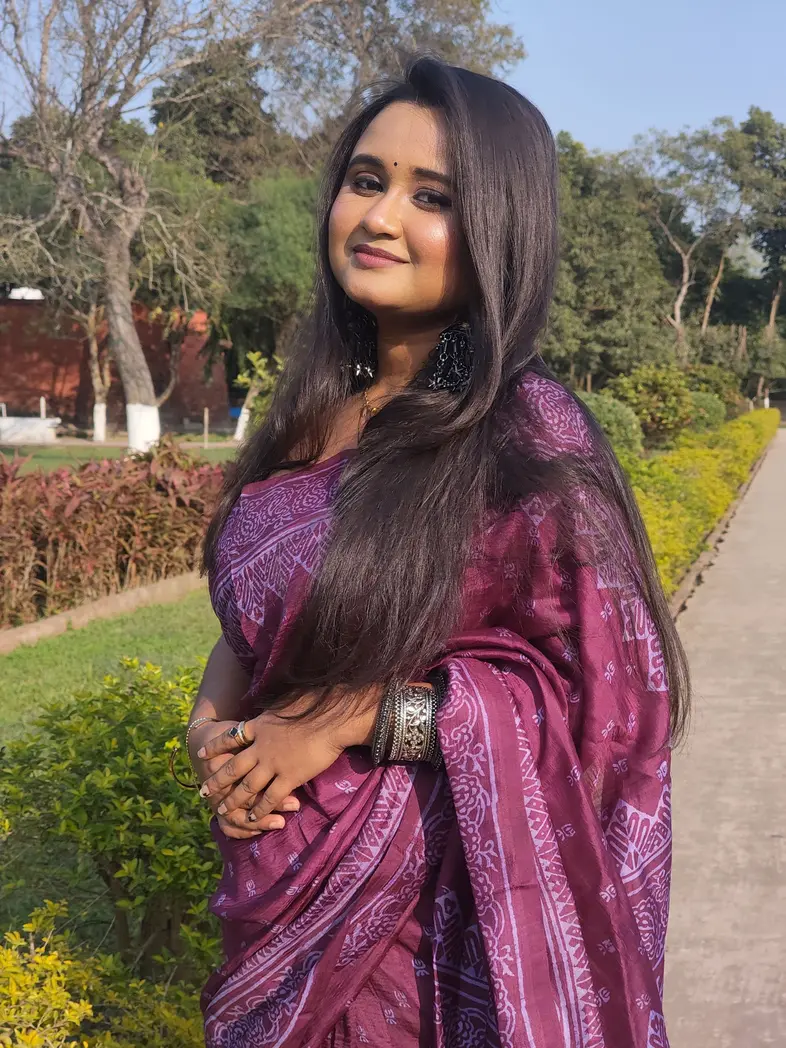
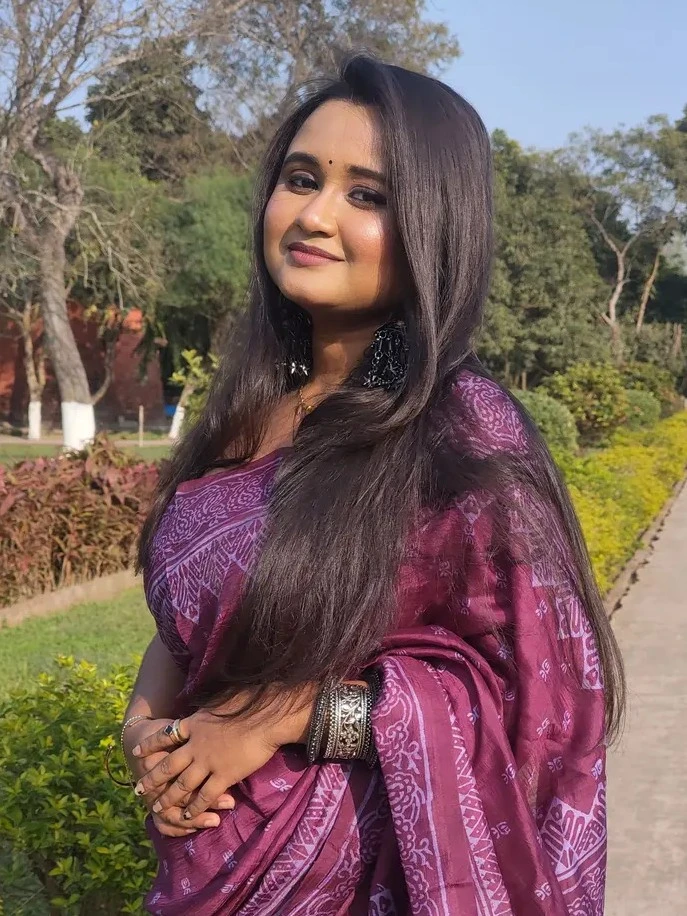
feat: add batchmates data and associated profile images

diff --git a/src/data/batchmates.js b/src/data/batchmates.js
@@ -9,7 +9,7 @@ export const peopleData =
     department: "Computer Science",
     birthday: "07-30",
     oneliner: "Somewhere behind these pages...",
-    socialLinks: { github: "#", linkedin: "#", instagram: "#" }
+    socialLinks: { github: "https://github.com/soumyajiitdas", linkedin: "linkedin.com/in/soumyajiitdas/", instagram: "https://www.instagram.com/soumyajiit_" }
   },
   {
     id: 2,
@@ -20,7 +20,7 @@ export const peopleData =
     department: "Computer Science",
     birthday: "",
     oneliner: "",
-    socialLinks: { github: "#", linkedin: "#", instagram: "#" }
+    socialLinks: { github: "#", linkedin: "#", instagram: "https://www.instagram.com/joy.bhowmik_03/" }
   },
   {
     id: 3,
@@ -31,7 +31,7 @@ export const peopleData =
     department: "Computer Science",
     birthday: "08-14",
     oneliner: "",
-    socialLinks: { github: "#", linkedin: "#", instagram: "#" }
+    socialLinks: { github: "#", linkedin: "https://www.linkedin.com/in/indrajit-ghosh-a53291390/", instagram: "https://www.instagram.com/indra5000q/" }
   },
   {
     id: 4,
@@ -42,7 +42,7 @@ export const peopleData =
     department: "Civil Engineering",
     birthday: "01-22",
     oneliner: "",
-    socialLinks: { github: "#", linkedin: "#", instagram: "#" }
+    socialLinks: { github: "#", linkedin: "https://www.linkedin.com/in/kriti-dutta-2922772bb/", instagram: "https://www.instagram.com/d_kritu/" }
   },
   {
     id: 5,
@@ -53,18 +53,18 @@ export const peopleData =
     department: "Computer Science",
     birthday: "",
     oneliner: "",
-    socialLinks: { github: "#", linkedin: "#", instagram: "#" }
+    socialLinks: { github: "https://github.com/raihanahamed01", linkedin: "https://www.linkedin.com/in/raihan-ahamed-910a3727a/", instagram: "https://www.instagram.com/ra1_haaann/" }
   },
   {
     id: 6,
     name: "Bapi Sarkar",
     nickname: "",
     roll: "10600122001",
-    photo: "/images/cast/batchmates/bapi.jpg",
+    photo: "/images/cast/batchmates/bapi.jpeg",
     department: "Computer Science",
     birthday: "",
     oneliner: "",
-    socialLinks: { github: "#", linkedin: "#", instagram: "#" }
+    socialLinks: { github: "https://github.com/bapisarkar22", linkedin: "https://www.linkedin.com/in/bapisarkar2005/", instagram: "https://www.instagram.com/bapisarkar1498/" }
   },
   {
     id: 7,
@@ -75,7 +75,7 @@ export const peopleData =
     department: "Computer Science",
     birthday: "06-02",
     oneliner: "",
-    socialLinks: { github: "#", linkedin: "#", instagram: "#" }
+    socialLinks: { github: "#", linkedin: "#", instagram: "https://www.instagram.com/___mr.glitch___/" }
   },
   {
     id: 8,
@@ -86,7 +86,7 @@ export const peopleData =
     department: "Computer Science",
     birthday: "02-03",
     oneliner: "",
-    socialLinks: { github: "#", linkedin: "#", instagram: "#" }
+    socialLinks: { github: "#", linkedin: "#", instagram: "https://www.instagram.com/manashi_mondal/" }
   },
   {
     id: 9,
@@ -97,7 +97,7 @@ export const peopleData =
     department: "Computer Science",
     birthday: "03-30",
     oneliner: "",
-    socialLinks: { github: "#", linkedin: "#", instagram: "#" }
+    socialLinks: { github: "#", linkedin: "#", instagram: "https://www.instagram.com/saeed_mustafa0/" }
   },
   {
     id: 10,
@@ -108,7 +108,7 @@ export const peopleData =
     department: "Computer Science",
     birthday: "06-02",
     oneliner: "",
-    socialLinks: { github: "#", linkedin: "#", instagram: "#" }
+    socialLinks: { github: "#", linkedin: "#", instagram: "https://www.instagram.com/rohitmaldini03/" }
   },
   {
     id: 11,
@@ -119,7 +119,7 @@ export const peopleData =
     department: "Computer Science",
     birthday: "",
     oneliner: "",
-    socialLinks: { github: "#", linkedin: "#", instagram: "#" }
+    socialLinks: { github: "https://github.com/rajupilki-ctrl", linkedin: "https://www.linkedin.com/in/raju-mondal-a4405929a/", instagram: "https://www.instagram.com/rajumondal416/" }
   },
   {
     id: 12,
@@ -130,7 +130,7 @@ export const peopleData =
     department: "Computer Science",
     birthday: "",
     oneliner: "",
-    socialLinks: { github: "#", linkedin: "#", instagram: "#" }
+    socialLinks: { github: "https://github.com/ani-11-pro", linkedin: "https://www.linkedin.com/in/contact-ani/", instagram: "https://www.instagram.com/ulto_bangal_eee/" }
   },
   {
     id: 13,
@@ -141,7 +141,7 @@ export const peopleData =
     department: "Computer Science",
     birthday: "",
     oneliner: "",
-    socialLinks: { github: "#", linkedin: "#", instagram: "#" }
+    socialLinks: { github: "https://github.com/roni0777", linkedin: "#", instagram: "#" }
   },
   {
     id: 14,
@@ -159,11 +159,11 @@ export const peopleData =
     name: "Md. Azam",
     nickname: "",
     roll: "",
-    photo: "/images/cast/batchmates/azam.png",
+    photo: "/images/cast/batchmates/azam.jpeg",
     department: "Computer Science",
     birthday: "",
     oneliner: "",
-    socialLinks: { github: "#", linkedin: "#", instagram: "#" }
+    socialLinks: { github: "#", linkedin: "#", instagram: "https://www.instagram.com/im_azam9137/" }
   },
   {
     id: 16,
@@ -174,7 +174,7 @@ export const peopleData =
     department: "Computer Science",
     birthday: "",
     oneliner: "",
-    socialLinks: { github: "#", linkedin: "#", instagram: "#" }
+    socialLinks: { github: "#", linkedin: "https://www.linkedin.com/in/%F0%9D%90%8D%F0%9D%90%AE%F0%9D%90%AB%F0%9D%90%9F%F0%9D%90%AE%F0%9D%90%A5-%F0%9D%90%92%F0%9D%90%A1%F0%9D%90%9A%F0%9D%90%A2%F0%9D%90%A4%F0%9D%90%A1-115863272/", instagram: "https://www.instagram.com/shaikhnurful/" }
   },
   {
     id: 17,
@@ -185,7 +185,7 @@ export const peopleData =
     department: "Civil Engineering",
     birthday: "",
     oneliner: "",
-    socialLinks: { github: "#", linkedin: "#", instagram: "#" }
+    socialLinks: { github: "#", linkedin: "#", instagram: "https://www.instagram.com/skylordishan/" }
   },
   {
     id: 18,
@@ -196,14 +196,14 @@ export const peopleData =
     department: "Civil Engineering",
     birthday: "",
     oneliner: "",
-    socialLinks: { github: "#", linkedin: "#", instagram: "#" }
+    socialLinks: { github: "#", linkedin: "#", instagram: "https://www.instagram.com/sahanajsultana57993/" }
   },
   {
     id: 19,
     name: "Priyobroto Dutta",
     nickname: "",
     roll: "10600122010",
-    photo: "linear-gradient(45deg, #A18CD1, #FBC2EB)",
+    photo: "/images/cast/batchmates/priobroto.jpg",
     department: "Computer Science",
     birthday: "",
     oneliner: "",
@@ -214,33 +214,33 @@ export const peopleData =
     name: "Anoushka Chaudhuri",
     nickname: "",
     roll: "10600122027",
-    photo: "linear-gradient(45deg, #FA709A, #FEE140)",
+    photo: "/images/cast/batchmates/anoushka.jpeg",
     department: "Computer Science",
     birthday: "",
     oneliner: "",
-    socialLinks: { github: "#", linkedin: "#", instagram: "#" }
+    socialLinks: { github: "https://github.com/awkwardish", linkedin: "https://www.linkedin.com/in/anoushkachaudhuri/", instagram: "https://www.instagram.com/anoushkasluggard/" }
   },
   {
     id: 21,
     name: "Srija Sarkar",
     nickname: "",
     roll: "10600122004",
-    photo: "linear-gradient(45deg, #30CFD0, #330867)",
+    photo: "/images/cast/batchmates/srija.png",
     department: "Computer Science",
     birthday: "",
     oneliner: "",
-    socialLinks: { github: "#", linkedin: "#", instagram: "#" }
+    socialLinks: { github: "https://github.com/srijasarkar133", linkedin: "https://www.linkedin.com/in/srija-sarkar-210383350/", instagram: "https://www.instagram.com/sriijaaaa_____/" }
   },
   {
     id: 22,
     name: "Anik Mukherjee",
     nickname: "",
     roll: "10600122028",
-    photo: "linear-gradient(45deg, #5EE7DF, #B490CA)",
+    photo: "/images/cast/batchmates/anik.jpg",
     department: "Computer Science",
     birthday: "",
     oneliner: "",
-    socialLinks: { github: "#", linkedin: "#", instagram: "#" }
+    socialLinks: { github: "#", linkedin: "http://linkedin.com/in/anikcodes/", instagram: "https://www.instagram.com/anikmukherjee2003/" }
   },
   {
     id: 23,
@@ -273,7 +273,7 @@ export const peopleData =
     department: "Computer Science",
     birthday: "",
     oneliner: "",
-    socialLinks: { github: "#", linkedin: "#", instagram: "#" }
+    socialLinks: { github: "#", linkedin: "#", instagram: "https://www.instagram.com/pratikmondal.06/" }
   },
   {
     id: 26,

diff --git a/src/pages/TheCast.jsx b/src/pages/TheCast.jsx
@@ -9,6 +9,17 @@ import { eventsData } from '../data/moments';
 import Modal from '../components/ui/Modal';
 import { Code, Briefcase, Camera, MessageCircle } from 'lucide-react';
 
+// random bg color of Vintage masking tape
+const bgColors = [
+  "bg-yellow-100/50",
+  "bg-red-100/50",
+  "bg-green-100/50",
+  "bg-blue-100/50"
+];
+
+const getRandomBg = () =>
+  bgColors[Math.floor(Math.random() * bgColors.length)];
+
 // Polaroid Component
 const Polaroid = ({ person, onClick }) => {
   return (
@@ -16,7 +27,7 @@ const Polaroid = ({ person, onClick }) => {
       whileHover={{ scale: 1.05, rotate: Math.random() > 0.5 ? 2 : -2 }}
       transition={{ type: "spring", stiffness: 300, damping: 20 }}
       layoutId={`person-${person.id}`}
-      className="cursor-pointer bg-[#fdfbf7] p-3 pb-8 shadow-xl flex flex-col items-center border border-amber-900/10 relative"
+      className="cursor-pointer bg-[#fdfbf7] p-3 pb-6 shadow-xl flex flex-col items-center border border-amber-900/10 relative"
       onClick={() => onClick(person)}
       style={{
          // slight organic rotation to each card inherently
@@ -25,16 +36,16 @@ const Polaroid = ({ person, onClick }) => {
       }}
     >
       {/* Vintage masking tape */}
-      <div className="absolute -top-3 left-1/2 -translate-x-1/2 w-16 h-6 bg-white/50 border border-white/20 shadow-sm z-10 backdrop-blur-sm" style={{ transform: "rotate(-2deg)" }} />
+      <div className={`absolute -top-3 left-1/2 -translate-x-1/2 w-16 h-6 ${getRandomBg()} border border-white/20 shadow-sm z-10 backdrop-blur-sm`} style={{ transform: "rotate(-2deg)" }} />
       
       <div 
-        className="w-full aspect-[4/5] bg-gray-200 shadow-inner bg-cover bg-center sepia-[0.3] contrast-[1.1]"
+        className="w-full aspect-[4/5] bg-gray-200 shadow-inner bg-cover bg-center contrast-[1.1]"
         style={{ backgroundImage: (person.photo?.startsWith('http') || person.photo?.startsWith('/')) ? `url('${person.photo}')` : person.photo }}
       >
         <div className="w-full h-full bg-amber-900/10 mix-blend-multiply"></div>
       </div>
       
-      <div className="pt-5 w-full text-center relative">
+      <div className="pt-4 w-full text-center relative">
          <h3 className="text-3xl font-['Caveat'] text-amber-950 font-medium tracking-wide">
            {person.name.split(" ")[0]}
          </h3>
@@ -155,18 +166,18 @@ const TheCast = () => {
               {/* Left Column: Taped Photo */}
               <div className="relative w-64 flex-shrink-0">
                 {/* Vintage Tape top left */}
-                <div className="absolute -top-5 -left-4 z-20 w-20 h-6 bg-yellow-100/40 backdrop-blur-sm shadow-sm rotate-[-12deg] border border-black/5" style={{ backgroundImage: "url('https://www.transparenttextures.com/patterns/aged-paper.png')" }} />
-                {/* Vintage Tape top right */}
-                <div className="absolute -bottom-4 -right-4 z-20 w-16 h-6 bg-yellow-100/40 backdrop-blur-sm shadow-sm rotate-[15deg] border border-black/5" style={{ backgroundImage: "url('https://www.transparenttextures.com/patterns/aged-paper.png')" }} />
+                <div className="absolute -top-5 -left-4 z-20 w-20 h-6 bg-green-400/40 backdrop-blur-sm shadow-sm rotate-[-12deg] border border-black/5" style={{ backgroundImage: "url('https://www.transparenttextures.com/patterns/aged-paper.png')" }} />
+                {/* Vintage Tape bottom right */}
+                <div className="absolute -bottom-4 -right-4 z-20 w-16 h-6 bg-amber-400/40 backdrop-blur-sm shadow-sm rotate-[15deg] border border-black/5" style={{ backgroundImage: "url('https://www.transparenttextures.com/patterns/aged-paper.png')" }} />
                 
                 <div className="bg-[#f4efe1] p-2 pb-6 shadow-[3px_5px_15px_rgba(0,0,0,0.25)] border border-[#d5d0c0] transform rotate-2">
                   <div 
-                    className="w-full aspect-square relative bg-zinc-300 sepia-[0.4] contrast-100 saturate-[0.8] mix-blend-multiply border border-black/20"
+                    className="w-full aspect-square sm:aspect-[3/4] relative contrast-100 saturate-[0.8] border border-black/20"
                     style={{ backgroundImage: (selectedPerson.photo?.startsWith('http') || selectedPerson.photo?.startsWith('/')) ? `url('${selectedPerson.photo}')` : selectedPerson.photo, backgroundSize: 'cover', backgroundPosition: 'center' }}
                   >
                     <div className="absolute inset-0 bg-[radial-gradient(circle_at_center,transparent_30%,rgba(0,0,0,0.5)_100%)]"></div>
                   </div>
-                  <p className="text-center font-['Caveat'] text-2xl text-[#4a4235] mt-3 opacity-90">{selectedPerson?.nickname?.trim()? `@${selectedPerson.nickname}`: `@${selectedPerson?.name?.split(' ')?.[0] || 'user'}'s shot`}</p>
+                  <p className="text-center font-['Caveat'] text-2xl text-[#4a4235] mt-3 opacity-90">{selectedPerson?.nickname?.trim()? `@${selectedPerson.nickname}`: `@${selectedPerson?.name?.split(' ')?.[0] || 'user'}'s shot📸`}</p>
                 </div>
               </div>
 
@@ -186,7 +197,7 @@ const TheCast = () => {
                          "{selectedPerson.roll || "1060012****"}"
                        </span>
                      </div>
-                     <span className="font-['Inter'] font-semibold text-[#8b7f6b] text-xs uppercase tracking-[0.2em] ml-2 mt-1">
+                     <span className="font-['Inter'] font-semibold text-black/50 text-xs uppercase tracking-[0.2em] ml-2 mt-1">
                        {selectedPerson.department}
                      </span>
                    </div>
@@ -208,7 +219,7 @@ const TheCast = () => {
                 </div>
 
                 {/* Social Stickers */}
-                <div className="pt-6 flex gap-4 right-0 justify-end md:justify-start w-full relative z-20">
+                <div className="flex gap-4 right-0 justify-end md:justify-start w-full relative z-20">
                   {selectedPerson.socialLinks && Object.entries(selectedPerson.socialLinks).map(([network, url], idx) => {
                     if(!url || url === "#") return null;
                     const rotations = ['rotate-3', '-rotate-6', 'rotate-6'];
